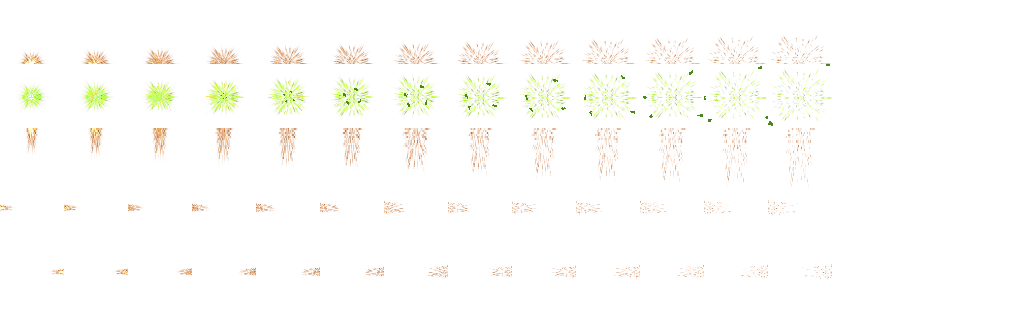
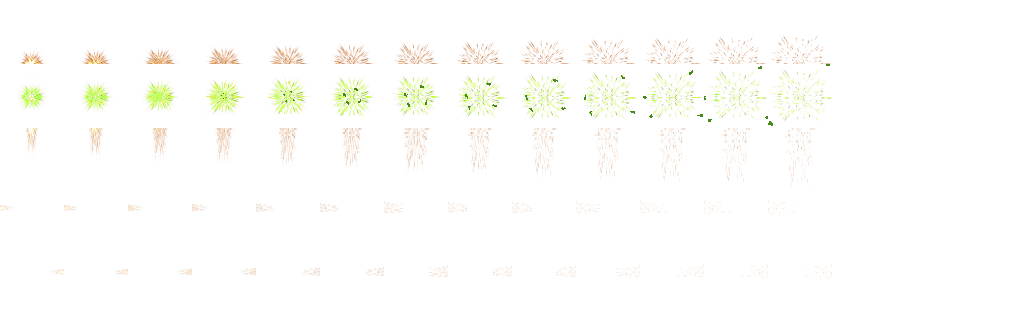
more subtle thruster particles

diff --git a/js/player.js b/js/player.js
@@ -146,8 +146,8 @@ function playerMove() {
         if (!Sound.isPlaying("thrust")) Sound.play("thrust", true, 0.4); // FIXME: should be looped and we change the volume
 
         // thruster particles w wobble
-        party(playerX+28+(Math.random()*2-1),playerY+26+(Math.random()*2-1),PARTICLE_THRUST); // right
-        party(playerX-28+(Math.random()*2-1),playerY+26+(Math.random()*2-1),PARTICLE_THRUST); // left
+        party(playerX+28+(Math.random()*4-2),playerY+26+(Math.random()*4-2),PARTICLE_THRUST); // right
+        party(playerX-28+(Math.random()*4-2),playerY+26+(Math.random()*4-2),PARTICLE_THRUST); // left
 
     }
     if(!usingJetpack) {
